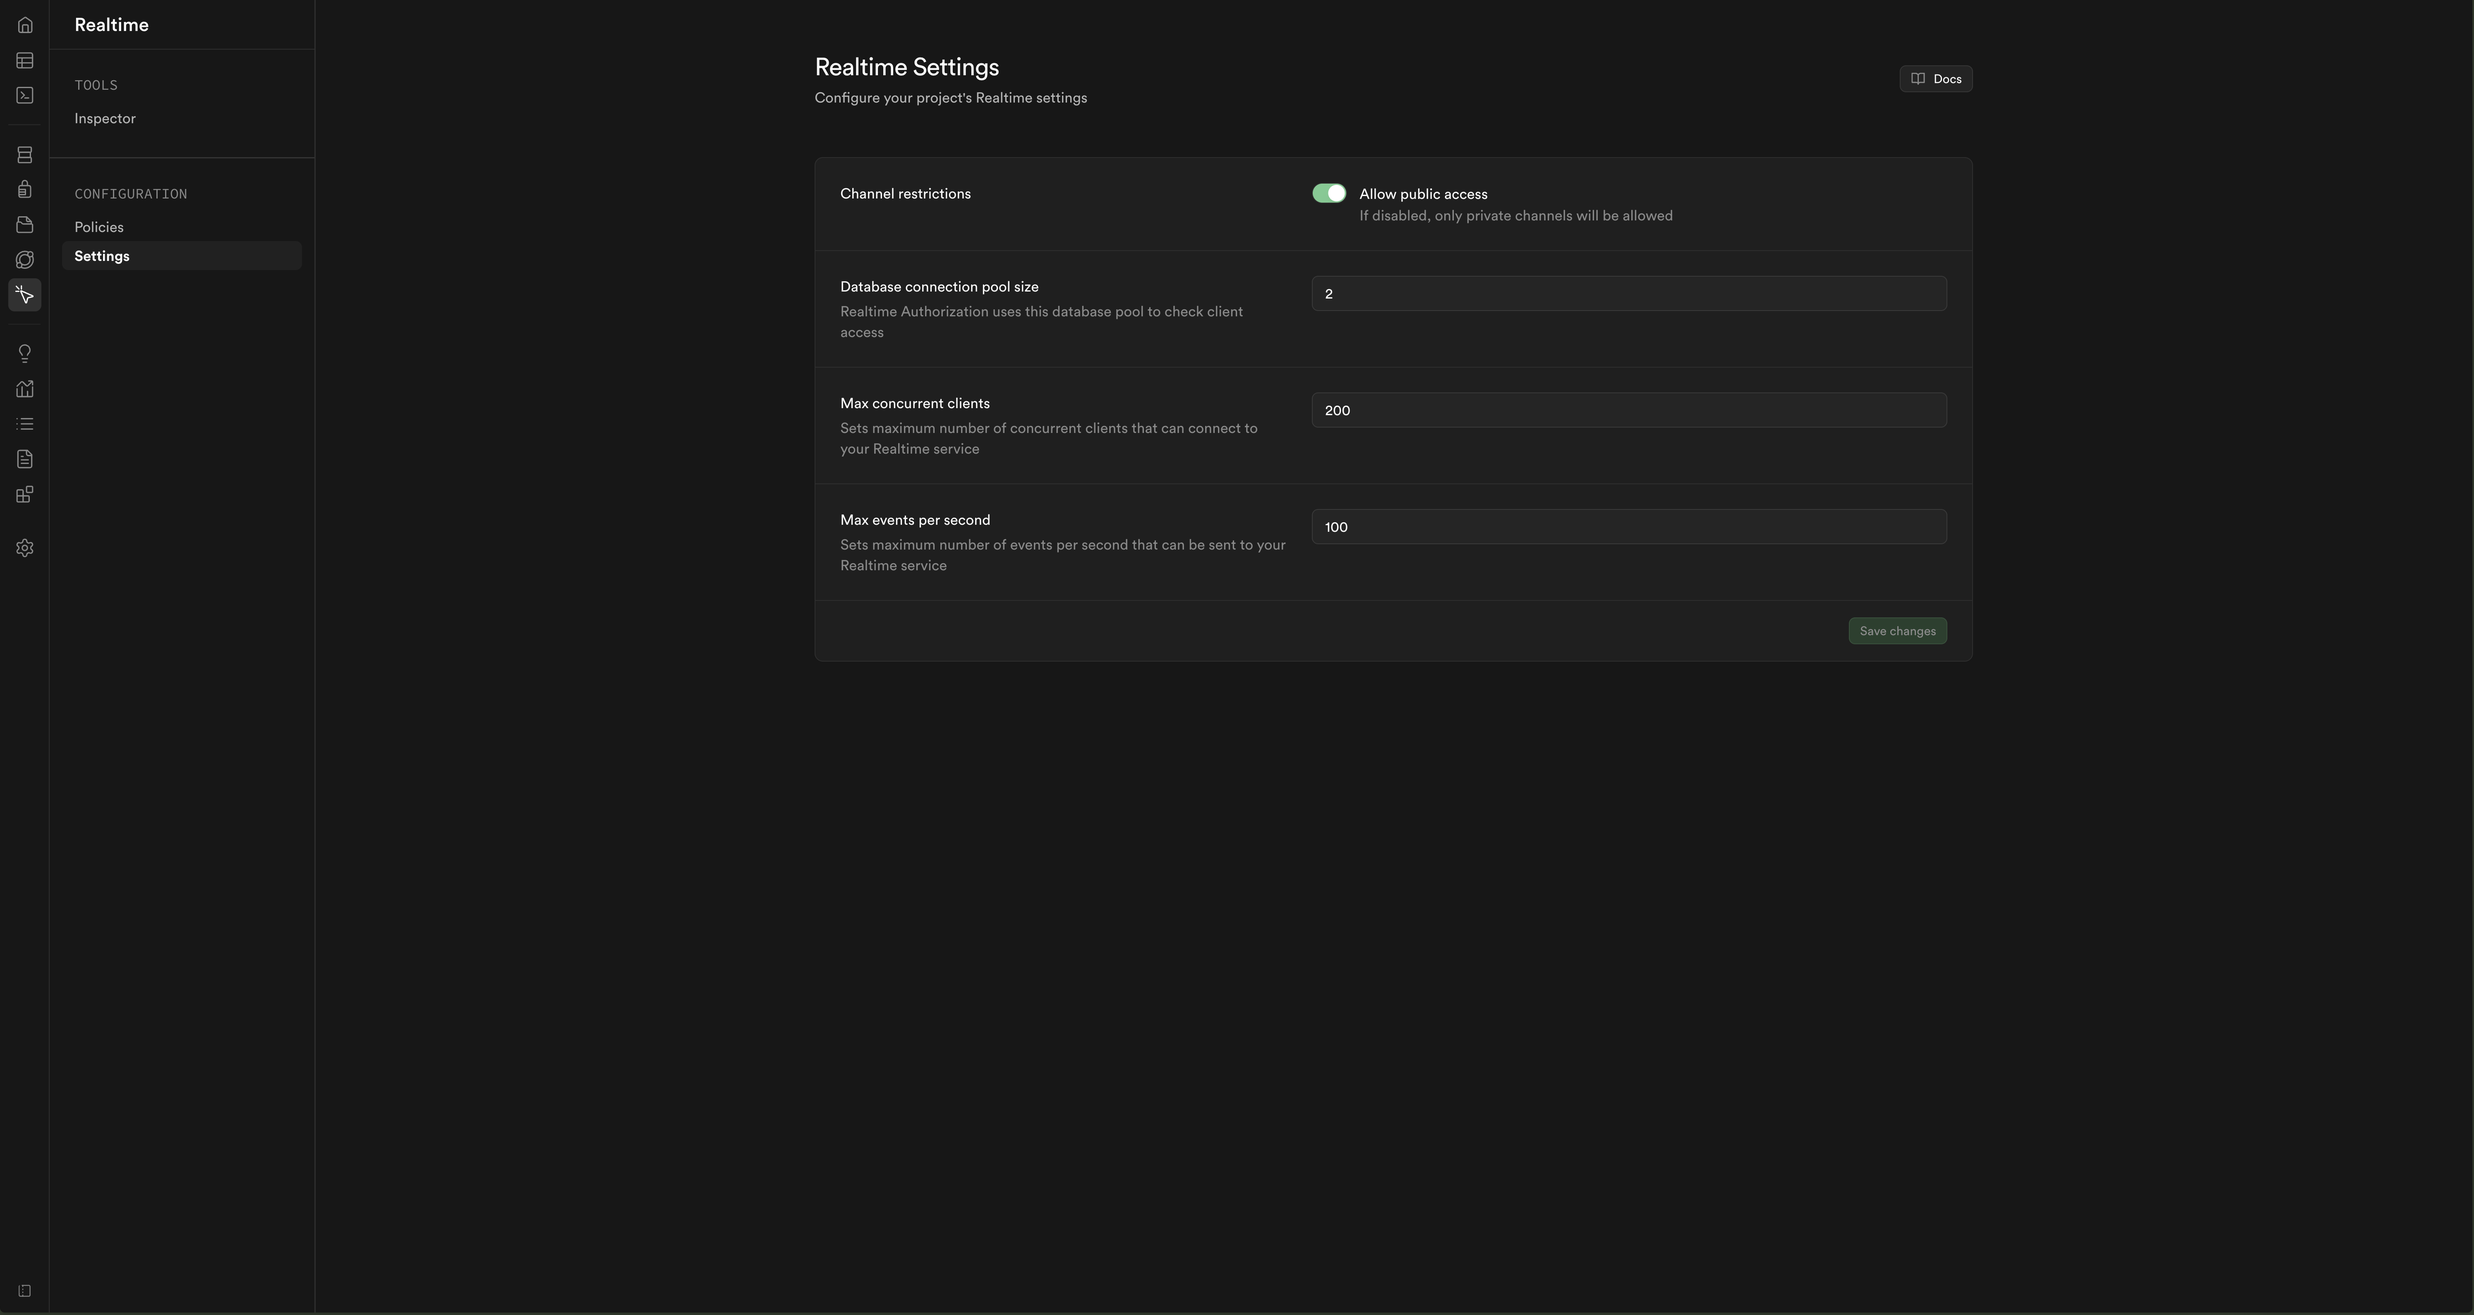
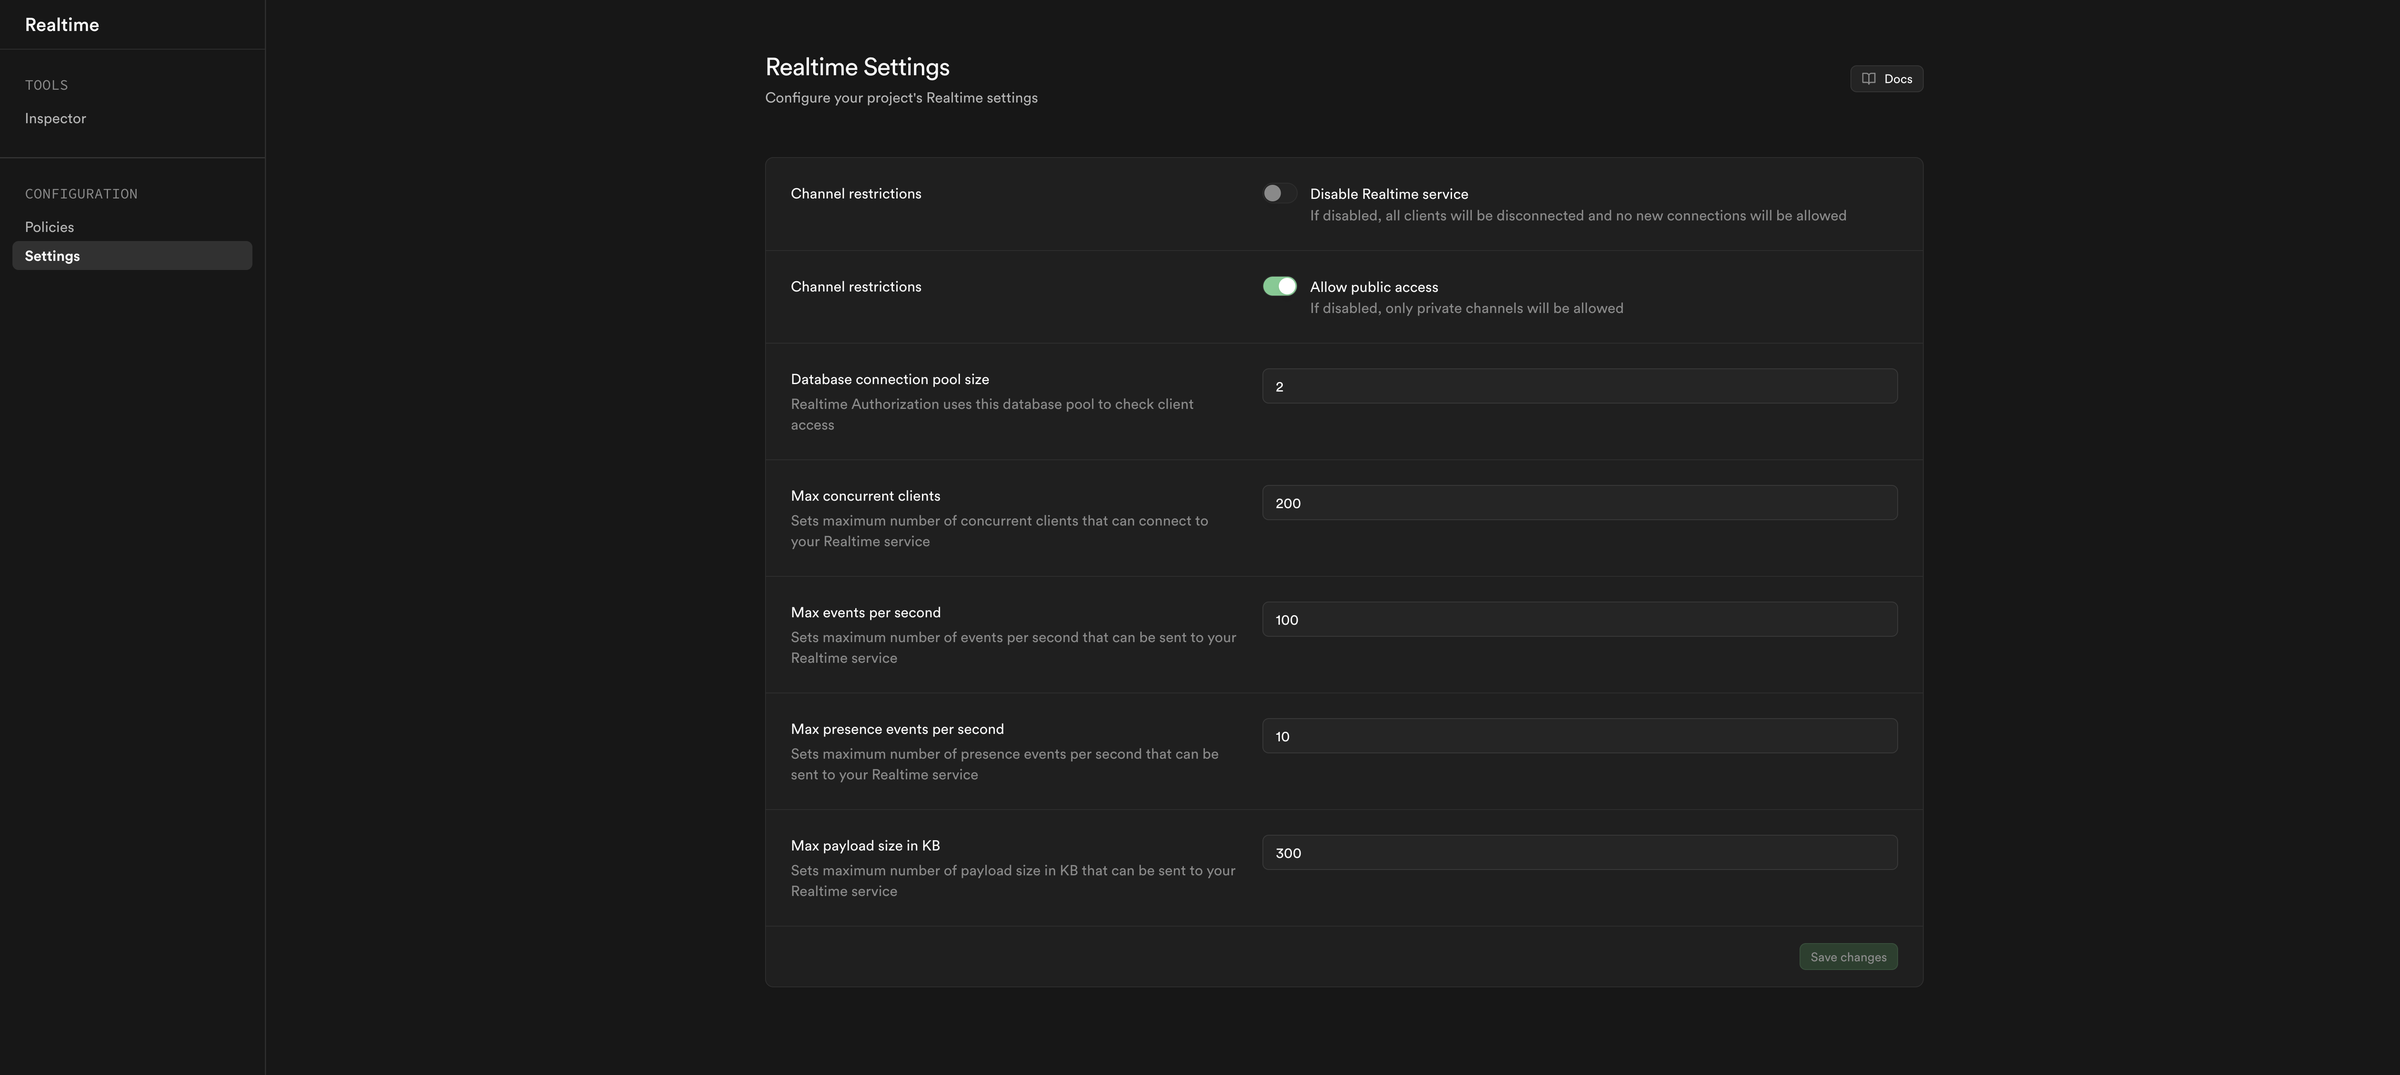
realtime: add more settings to Realtime (#39566)
* Enable / Disable Realtime for tenant
* Set max payload size in kb
* Set max presence events per second

diff --git a/apps/studio/components/interfaces/Realtime/RealtimeSettings.tsx b/apps/studio/components/interfaces/Realtime/RealtimeSettings.tsx
@@ -64,7 +64,7 @@ export const RealtimeSettings = () => {
 
   const isFreePlan = organization?.plan.id === 'free'
   const isUsageBillingEnabled = organization?.usage_billing_enabled
-
+  const isRealtimeDisabed = data?.suspend ?? REALTIME_DEFAULT_CONFIG.suspend
   // Check if RLS policies exist for realtime.messages table
   const realtimeMessagesPolicies = policies?.filter(
     (policy) => policy.schema === 'realtime' && policy.table === 'messages'
@@ -87,6 +87,9 @@ export const RealtimeSettings = () => {
       .max(maxConn?.maxConnections ?? 100),
     max_concurrent_users: z.coerce.number().min(1).max(50000),
     max_events_per_second: z.coerce.number().min(1).max(10000),
+    max_presence_events_per_second: z.coerce.number().min(1).max(10000),
+    max_payload_size_in_kb: z.coerce.number().min(1).max(3000),
+    suspend: z.boolean(),
     // [Joshen] These fields are temporarily hidden from the UI
     // max_bytes_per_second: z.coerce.number().min(1).max(10000000),
     // max_channels_per_client: z.coerce.number().min(1).max(10000),
@@ -118,6 +121,9 @@ export const RealtimeSettings = () => {
       connection_pool: data.connection_pool,
       max_concurrent_users: data.max_concurrent_users,
       max_events_per_second: data.max_events_per_second,
+      max_presence_events_per_second: data.max_presence_events_per_second,
+      max_payload_size_in_kb: data.max_payload_size_in_kb,
+      suspend: data.suspend,
     })
   }
 
@@ -129,6 +135,53 @@ export const RealtimeSettings = () => {
             <AlertError error={error} subject="Failed to retrieve realtime settings" />
           ) : (
             <Card>
+              <CardContent>
+                <FormField_Shadcn_
+                  control={form.control}
+                  name="suspend"
+                  render={({ field }) => (
+                    <FormSection
+                      className="!p-0 !pt-2"
+                      header={<FormSectionLabel>Enable Realtime service</FormSectionLabel>}
+                    >
+                      <FormSectionContent
+                        loaders={1}
+                        loading={isLoading || isLoadingPermissions}
+                        className="!gap-y-2"
+                      >
+                        <FormItemLayout
+                          layout="flex"
+                          label="Enable Realtime service"
+                          description="If enabled, all clients will be able to connect and new connections will be allowed"
+                        >
+                          <FormControl_Shadcn_>
+                            <Switch
+                              checked={!field.value}
+                              onCheckedChange={(checked) => field.onChange(!checked)}
+                              disabled={!canUpdateConfig}
+                            />
+                          </FormControl_Shadcn_>
+                        </FormItemLayout>
+                        <FormMessage_Shadcn_ />
+                        {isSuccessOrganization && isRealtimeDisabed && (
+                          <Admonition showIcon={false} type="default">
+                            <div className="flex items-center gap-x-2">
+                              <div>
+                                <h5 className="text-foreground mb-1">
+                                  Realtime service is disabled
+                                </h5>
+                                <p className="text-foreground-light">
+                                  You will need to enable it to continue using Realtime
+                                </p>
+                              </div>
+                            </div>
+                          </Admonition>
+                        )}
+                      </FormSectionContent>
+                    </FormSection>
+                  )}
+                />
+              </CardContent>
               <CardContent>
                 <FormField_Shadcn_
                   control={form.control}
@@ -152,34 +205,37 @@ export const RealtimeSettings = () => {
                             <Switch
                               checked={field.value}
                               onCheckedChange={field.onChange}
-                              disabled={!canUpdateConfig}
+                              disabled={!canUpdateConfig || isRealtimeDisabed}
                             />
                           </FormControl_Shadcn_>
                         </FormItemLayout>
 
-                        {isSuccessPolicies && !hasRealtimeMessagesPolicies && !allow_public && (
-                          <Admonition
-                            showIcon={false}
-                            type="warning"
-                            title="No Realtime RLS policies found"
-                            description={
-                              <>
-                                <p className="prose max-w-full text-sm">
-                                  Private mode is {isSettingToPrivate ? 'being ' : ''}
-                                  enabled, but no RLS policies exists on the{' '}
-                                  <code className="text-xs">realtime.messages</code> table. No
-                                  messages will be received by users.
-                                </p>
+                        {isSuccessPolicies &&
+                          !hasRealtimeMessagesPolicies &&
+                          !allow_public &&
+                          !isRealtimeDisabed && (
+                            <Admonition
+                              showIcon={false}
+                              type="warning"
+                              title="No Realtime RLS policies found"
+                              description={
+                                <>
+                                  <p className="prose max-w-full text-sm">
+                                    Private mode is {isSettingToPrivate ? 'being ' : ''}
+                                    enabled, but no RLS policies exists on the{' '}
+                                    <code className="text-xs">realtime.messages</code> table. No
+                                    messages will be received by users.
+                                  </p>
 
-                                <Button asChild type="default" className="mt-2">
-                                  <Link href={`/project/${projectRef}/realtime/policies`}>
-                                    Create policy
-                                  </Link>
-                                </Button>
-                              </>
-                            }
-                          />
-                        )}
+                                  <Button asChild type="default" className="mt-2">
+                                    <Link href={`/project/${projectRef}/realtime/policies`}>
+                                      Create policy
+                                    </Link>
+                                  </Button>
+                                </>
+                              }
+                            />
+                          )}
                       </FormSectionContent>
                     </FormSection>
                   )}
@@ -209,7 +265,7 @@ export const RealtimeSettings = () => {
                           <Input_Shadcn_
                             {...field}
                             type="number"
-                            disabled={!canUpdateConfig}
+                            disabled={!canUpdateConfig || isRealtimeDisabed}
                             value={field.value || ''}
                           />
                         </FormControl_Shadcn_>
@@ -249,7 +305,12 @@ export const RealtimeSettings = () => {
                     >
                       <FormSectionContent loaders={1} loading={isLoading} className="!gap-y-2">
                         <FormControl_Shadcn_>
-                          <Input_Shadcn_ {...field} type="number" value={field.value || ''} />
+                          <Input_Shadcn_
+                            {...field}
+                            type="number"
+                            disabled={!canUpdateConfig || isRealtimeDisabed}
+                            value={field.value || ''}
+                          />
                         </FormControl_Shadcn_>
                         <FormMessage_Shadcn_ />
                       </FormSectionContent>
@@ -282,12 +343,134 @@ export const RealtimeSettings = () => {
                           <Input_Shadcn_
                             {...field}
                             type="number"
-                            disabled={!isUsageBillingEnabled || !canUpdateConfig}
+                            disabled={
+                              !isUsageBillingEnabled || !canUpdateConfig || isRealtimeDisabed
+                            }
                             value={field.value || ''}
                           />
                         </FormControl_Shadcn_>
                         <FormMessage_Shadcn_ />
-                        {isSuccessOrganization && !isUsageBillingEnabled && (
+                        {isSuccessOrganization && !isUsageBillingEnabled && !isRealtimeDisabed && (
+                          <Admonition showIcon={false} type="default">
+                            <div className="flex items-center gap-x-2">
+                              <div>
+                                <h5 className="text-foreground mb-1">
+                                  Spend cap needs to be disabled to configure this value
+                                </h5>
+                                <p className="text-foreground-light">
+                                  {isFreePlan
+                                    ? 'Upgrade to the Pro plan first to disable spend cap'
+                                    : 'You may adjust this setting in the organization billing settings'}
+                                </p>
+                              </div>
+                              <div className="flex-grow flex items-center justify-end">
+                                {isFreePlan ? (
+                                  <UpgradePlanButton source="realtimeSettings" plan="Pro" />
+                                ) : (
+                                  <ToggleSpendCapButton />
+                                )}
+                              </div>
+                            </div>
+                          </Admonition>
+                        )}
+                      </FormSectionContent>
+                    </FormSection>
+                  )}
+                />
+              </CardContent>
+              <CardContent>
+                <FormField_Shadcn_
+                  control={form.control}
+                  name="max_presence_events_per_second"
+                  render={({ field }) => (
+                    <FormSection
+                      className="!p-0 !py-2"
+                      header={
+                        <FormSectionLabel
+                          description={
+                            <p className="text-foreground-lighter text-sm !mt-1">
+                              Sets maximum number of presence events per second that can be sent to
+                              your Realtime service
+                            </p>
+                          }
+                        >
+                          Max presence events per second
+                        </FormSectionLabel>
+                      }
+                    >
+                      <FormSectionContent loaders={1} loading={isLoading} className="!gap-y-2">
+                        <FormControl_Shadcn_>
+                          <Input_Shadcn_
+                            {...field}
+                            type="number"
+                            disabled={
+                              !isUsageBillingEnabled || !canUpdateConfig || isRealtimeDisabed
+                            }
+                            value={field.value || ''}
+                          />
+                        </FormControl_Shadcn_>
+                        <FormMessage_Shadcn_ />
+                        {isSuccessOrganization && !isUsageBillingEnabled && !isRealtimeDisabed && (
+                          <Admonition showIcon={false} type="default">
+                            <div className="flex items-center gap-x-2">
+                              <div>
+                                <h5 className="text-foreground mb-1">
+                                  Spend cap needs to be disabled to configure this value
+                                </h5>
+                                <p className="text-foreground-light">
+                                  {isFreePlan
+                                    ? 'Upgrade to the Pro plan first to disable spend cap'
+                                    : 'You may adjust this setting in the organization billing settings'}
+                                </p>
+                              </div>
+                              <div className="flex-grow flex items-center justify-end">
+                                {isFreePlan ? (
+                                  <UpgradePlanButton source="realtimeSettings" plan="Pro" />
+                                ) : (
+                                  <ToggleSpendCapButton />
+                                )}
+                              </div>
+                            </div>
+                          </Admonition>
+                        )}
+                      </FormSectionContent>
+                    </FormSection>
+                  )}
+                />
+              </CardContent>
+              <CardContent>
+                <FormField_Shadcn_
+                  control={form.control}
+                  name="max_payload_size_in_kb"
+                  render={({ field }) => (
+                    <FormSection
+                      className="!p-0 !py-2"
+                      header={
+                        <FormSectionLabel
+                          description={
+                            <p className="text-foreground-lighter text-sm !mt-1">
+                              Sets maximum number of payload size in KB that can be sent to your
+                              Realtime service
+                            </p>
+                          }
+                        >
+                          Max payload size in KB
+                        </FormSectionLabel>
+                      }
+                    >
+                      <FormSectionContent loaders={1} loading={isLoading} className="!gap-y-2">
+                        <FormControl_Shadcn_>
+                          <Input_Shadcn_
+                            {...field}
+                            type="number"
+                            disabled={
+                              !isUsageBillingEnabled || !canUpdateConfig || isRealtimeDisabed
+                            }
+                            value={field.value || ''}
+                          />
+                        </FormControl_Shadcn_>
+                        <FormMessage_Shadcn_ />
+                        {isSuccessOrganization && !isUsageBillingEnabled && !isRealtimeDisabed && (
                           <Admonition showIcon={false} type="default">
                             <div className="flex items-center gap-x-2">
                               <div>

diff --git a/apps/studio/data/realtime/realtime-config-mutation.ts b/apps/studio/data/realtime/realtime-config-mutation.ts
@@ -19,6 +19,9 @@ export async function updateRealtimeConfiguration({
   max_bytes_per_second,
   max_channels_per_client,
   max_joins_per_second,
+  max_presence_events_per_second,
+  max_payload_size_in_kb,
+  suspend,
 }: RealtimeConfigurationUpdateVariables) {
   if (!ref) return console.error('Project ref is required')
 
@@ -32,6 +35,9 @@ export async function updateRealtimeConfiguration({
       max_bytes_per_second,
       max_channels_per_client,
       max_joins_per_second,
+      max_presence_events_per_second,
+      max_payload_size_in_kb,
+      suspend,
     },
   })
 

diff --git a/apps/studio/data/realtime/realtime-config-query.ts b/apps/studio/data/realtime/realtime-config-query.ts
@@ -17,6 +17,9 @@ export const REALTIME_DEFAULT_CONFIG = {
   max_bytes_per_second: 100000,
   max_channels_per_client: 100,
   max_joins_per_second: 100,
+  max_presence_events_per_second: 100,
+  max_payload_size_in_kb: 100,
+  suspend: false,
 }
 
 export async function getRealtimeConfiguration(
